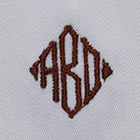
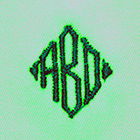
changes

diff --git a/application/controllers/CustomApi.php b/application/controllers/CustomApi.php
@@ -995,52 +995,39 @@ class CustomApi extends REST_Controller {
             ],
             "monogram_style" => [
                 array(
-                    "title" => "1",
-                    "image" => "1.png",
+                    "font_style" => "font-family: 'Orbitron';",
+                    "title" => "8",
+                    "image" => "8.jpg",
                 ),
                 array(
-                    "title" => "2",
-                    "image" => "2.png",
-                ),
-                array(
-                    "title" => "3",
-                    "image" => "3.png",
-                ),
-                array(
-                    "title" => "4",
-                    "image" => "4.png",
-                ),
-                array(
-                    "title" => "5",
-                    "image" => "5.png",
-                ),
-                array(
-                    "title" => "6",
-                    "image" => "6.png",
-                ),
-                array(
-                    "title" => "7",
-                    "image" => "7.png",
-                ),
-                array(
-                    "title" => "9",
-                    "image" => "9.png",
-                ),
-                array(
+                    "font_style" => "font-family: 'Orbitron';",
                     "title" => "10",
-                    "image" => "10.png",
+                    "image" => "10.jpg",
                 ),
                 array(
-                    "title" => "11",
-                    "image" => "11.png",
+                    "font_style" => "font-family: 'Black Ops One';",
+                    "title" => "13",
+                    "image" => "13.jpg",
                 ),
                 array(
-                    "title" => "14",
-                    "image" => "14.png",
+                    "font_style" => "font-family: 'Bungee';",
+                    "title" => "16",
+                    "image" => "16.jpg",
                 ),
                 array(
-                    "title" => "15",
-                    "image" => "15.png",
+                    "font_style" => "font-family: 'Bungee';",
+                    "title" => "17",
+                    "image" => "17.jpg",
+                ),
+                array(
+                    "font_style" => "font-family: 'Bungee';",
+                    "title" => "19",
+                    "image" => "19.jpg",
+                ),
+                array(
+                    "font_style" => "font-family: 'Wallpoet';",
+                    "title" => "21",
+                    "image" => "21.jpg",
                 ),
             ],
         );
